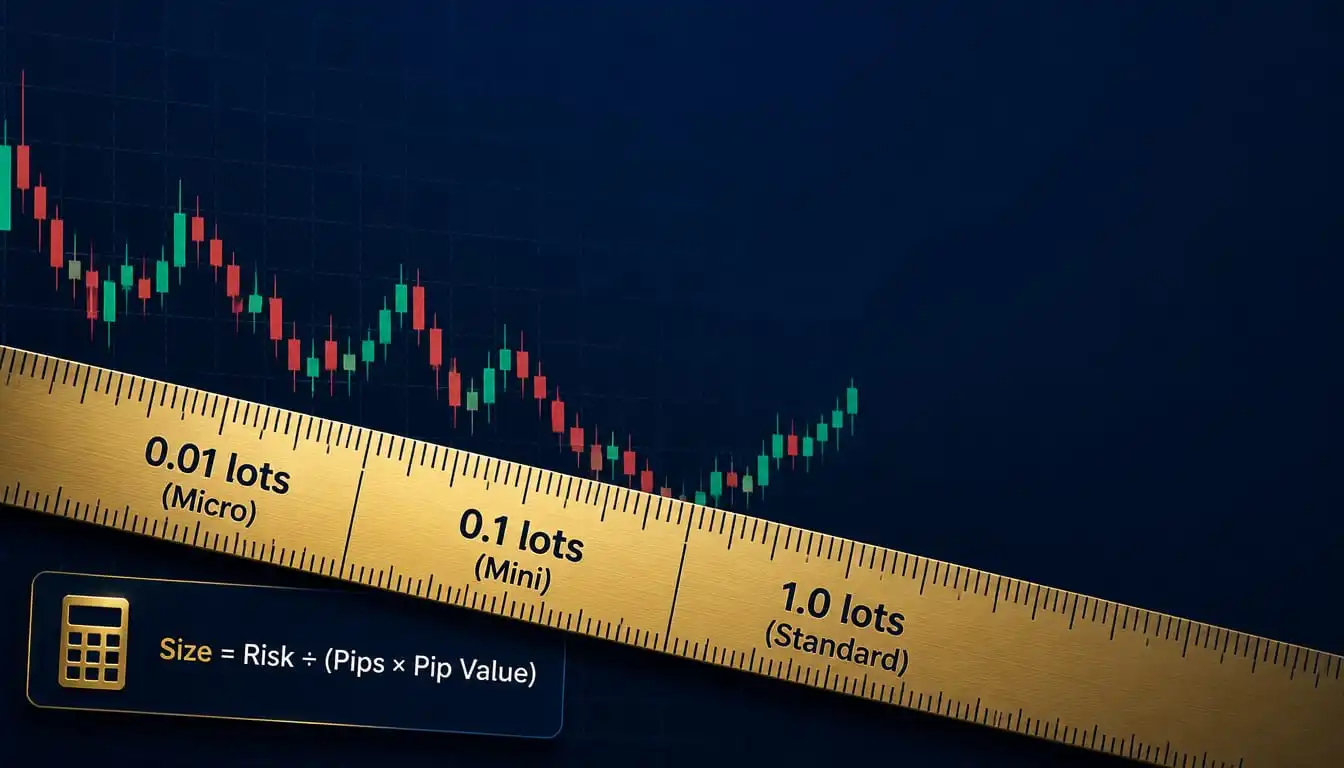
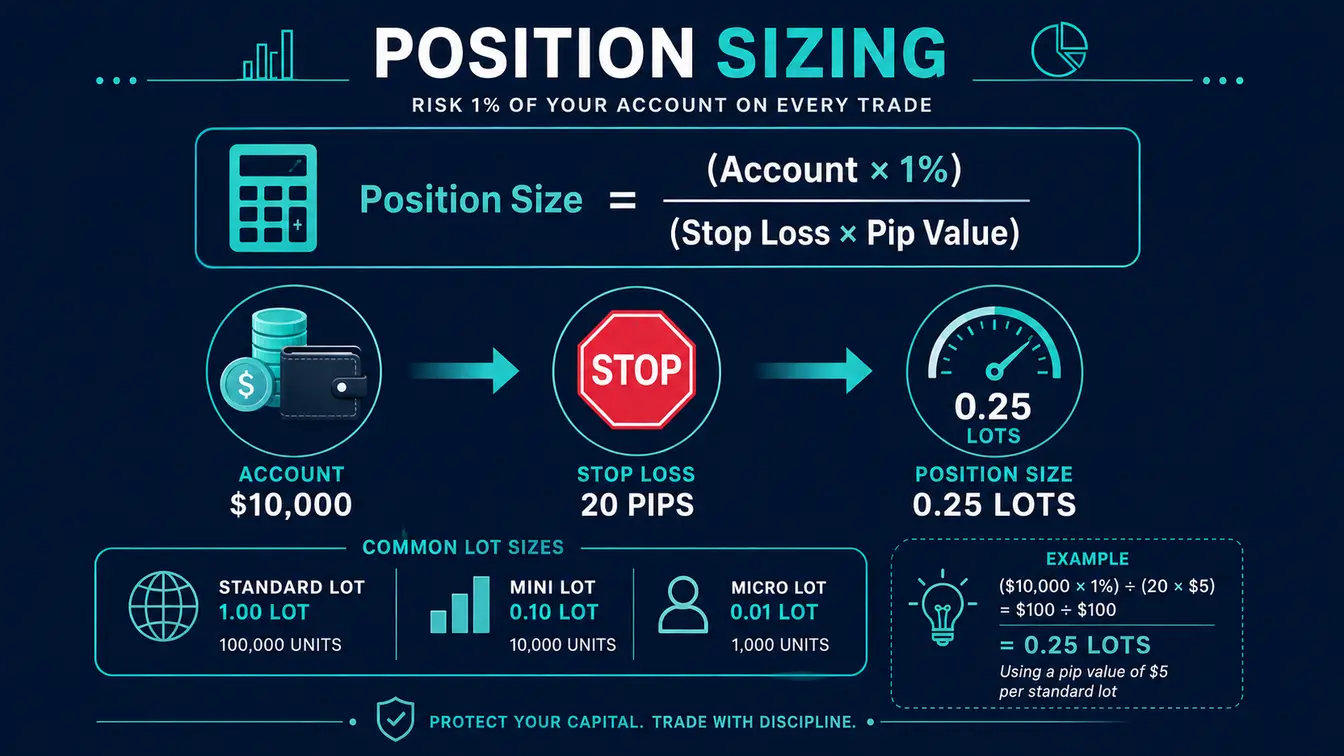
update

diff --git a/category/risk-management/risk-management-101/index.html b/category/risk-management/risk-management-101/index.html
@@ -102,7 +102,7 @@
         <!-- FEATURED IMAGE -->
         <div class="featured-image">
             <img src="risk-management-featured.webp" 
-                 alt="Question mark shield with opposing buy and sell arrows canceling each other — contrasting hedging with simple stop loss" 
+                 alt="Teal shield with 1% rule in center, surrounded by icons for stop loss, 1:2 risk reward, drawdown limits, and position sizing — risk management 101" 
                  loading="eager"
                  width="800"
                  height="450">
@@ -114,7 +114,7 @@
 
             <p>Risk management is the single most important skill in trading. Not technical analysis. Not finding the perfect entry. Not reading the news. <strong>Risk management.</strong></p>
 
-            <p>After 6 years of trading, I can tell you that every trader I know who succeeded long-term mastered risk management first. The ones who didn't? They don't trade anymore.</p>
+            <p>After years of trading, I can tell you that every trader I know who succeeded long-term mastered risk management first. The ones who didn't? They don't trade anymore.</p>
 
             <div class="info-box">
                 <strong>💡 The Golden Rule:</strong> Never risk more than 1-2% of your account on a single trade. This is non-negotiable.
@@ -236,7 +236,7 @@
 
             <!-- INTERNAL LINK TO POST #17 (COMING SOON) -->
             <div class="internal-link">
-                📖 <strong>Coming Soon:</strong> <a href="/category/risk-management/risk-reward-ratio/">Risk Reward Ratio: How to Calculate and Why 1:2 is Minimum</a> — Everything you need to know about risk reward.
+                📖 <strong>Related Reading:</strong> <a href="/category/risk-management/risk-reward-ratio/">Risk Reward Ratio: How to Calculate and Why 1:2 is Minimum</a> — Everything you need to know about risk reward.
             </div>
 
             <!-- SECTION 5 -->
@@ -258,7 +258,7 @@
 
             <!-- INTERNAL LINK TO POST #18 (COMING SOON) -->
             <div class="internal-link">
-                📖 <strong>Coming Soon:</strong> <a href="/category/risk-management/maximum-drawdown/">Maximum Drawdown: What It Is and How to Control It</a> — A complete guide to drawdown management.
+                📖 <strong>Related Reading:</strong> <a href="/category/risk-management/maximum-drawdown/">Maximum Drawdown: What It Is and How to Control It</a> — A complete guide to drawdown management.
             </div>
 
             <!-- SECTION 6 -->
@@ -282,7 +282,7 @@
 
             <!-- INTERNAL LINK TO POST #25 (POSITION SIZING - COMING SOON) -->
             <div class="internal-link">
-                📖 <strong>Coming Soon:</strong> <a href="/category/position-sizing/position-sizing-explained/">Position Sizing Explained: The Most Important Skill in Trading</a> — Learn exactly how to calculate position sizes based on your 1% risk rule.
+                📖 <strong>Related Reading:</strong> <a href="/category/position-sizing/position-sizing-explained/">Position Sizing Explained: The Most Important Skill in Trading</a> — Learn exactly how to calculate position sizes based on your 1% risk rule.
             </div>
 
             <hr>
@@ -290,8 +290,6 @@
             <!-- CONCLUSION -->
             <h2>Risk Management is Your Lifeline</h2>
             <p>The market will always be there tomorrow. There will always be another trade. But you only have one trading account. Protect it.</p>
-            
-            <p>After 6 years, I can tell you that every trader who lasted more than a few years has one thing in common: they respected risk management. The ones who didn't? They're not trading anymore.</p>
             
             <p><strong>Start with 1% risk per trade. Use stop losses. Aim for 1:2 risk reward. Protect your capital like your trading life depends on it — because it does.</strong></p>
 

diff --git a/category/position-sizing/position-sizing-explained/index.html b/category/position-sizing/position-sizing-explained/index.html
@@ -102,7 +102,7 @@
         <!-- FEATURED IMAGE -->
         <div class="featured-image">
             <img src="position-sizing-featured.webp" 
-                 alt="Position sizing explained — precision ruler measuring micro mini and standard lot sizes on trading chart with calculation formula" 
+                 alt="Position sizing formula: Position Size = (Account × 1%) ÷ (Stop Loss × Pip Value) = 0.25 lots — with account, stop loss, and lot size icons" 
                  loading="eager"
                  width="800"
                  height="450">
@@ -223,7 +223,7 @@
 
             <!-- INTERNAL LINK TO POST #26 (COMING SOON) -->
             <div class="internal-link">
-                📖 <strong>Coming Soon:</strong> <a href="/category/position-sizing/lot-sizes-explained/">Lot Sizes in Forex: Standard, Mini, and Micro Lots Explained</a> — A deeper dive into lot sizes and when to use each.
+                📖 <strong>Related Reading:</strong> <a href="/category/position-sizing/lot-sizes-explained/">Lot Sizes in Forex: Standard, Mini, and Micro Lots Explained</a> — A deeper dive into lot sizes and when to use each.
             </div>
 
             <!-- SECTION 3 -->
@@ -276,7 +276,7 @@
 
             <!-- INTERNAL LINK TO POST #27 (COMING SOON) -->
             <div class="internal-link">
-                📖 <strong>Coming Soon:</strong> <a href="/category/position-sizing/how-to-calculate-position-size/">How to Calculate Position Size Based on Risk</a> — More examples and practice scenarios.
+                📖 <strong>Related Reading:</strong> <a href="/category/position-sizing/how-to-calculate-position-size/">How to Calculate Position Size Based on Risk</a> — More examples and practice scenarios.
             </div>
 
             <!-- SECTION 5 -->

diff --git a/category/risk-management/maximum-drawdown/index.html b/category/risk-management/maximum-drawdown/index.html
@@ -112,7 +112,7 @@
 
             <p>Here's a number that every trader should know: their <strong>maximum drawdown</strong>. It's the single most important metric for understanding your risk tolerance and the health of your trading.</p>
 
-            <p>In my first year, my maximum drawdown was 60%. That meant my $5,000 account dropped to $2,000 at its lowest point. To recover, I needed a 150% gain — which took me months. Those were painful months.</p>
+            <p>In my first year, my maximum drawdown was 60%. That meant my account dropped to nearly half of its original size at its lowest point. To recover, I needed a 150% gain — which took me months. Those were painful months.</p>
 
             <p>In this guide, I'll explain exactly what maximum drawdown is, how to calculate it, and why keeping it small is the key to long-term survival.</p>
 
